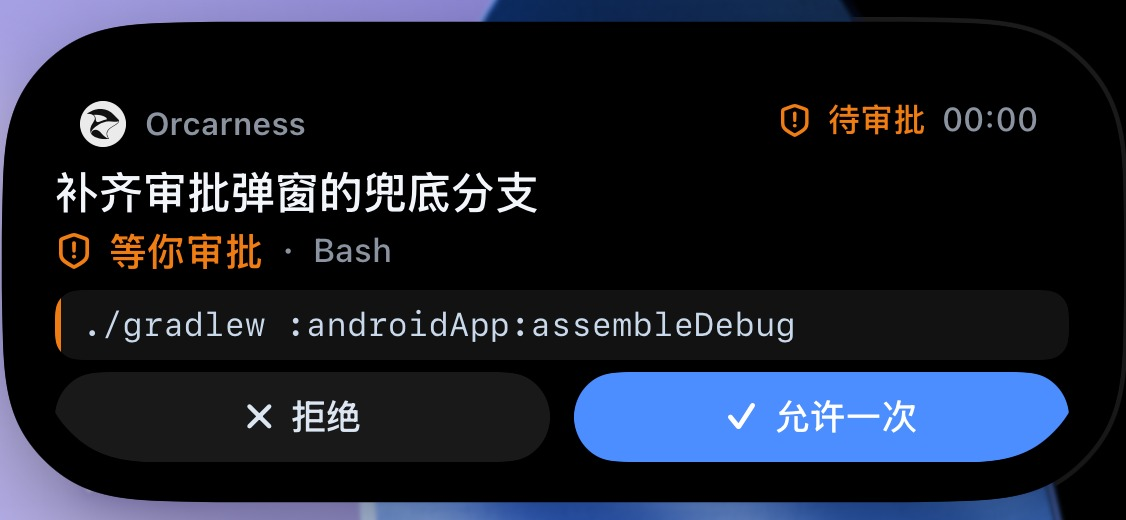
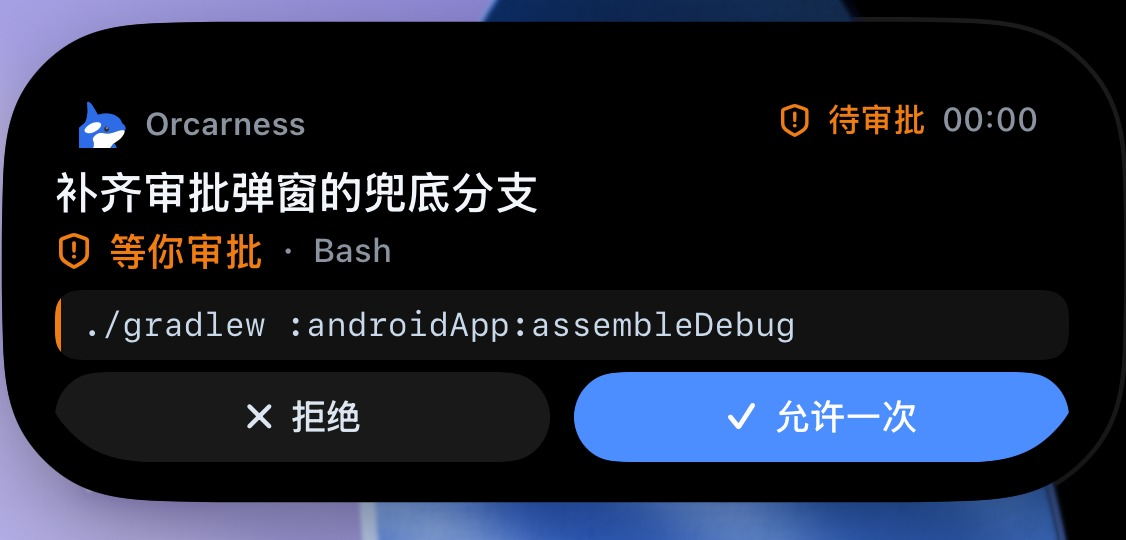
fix(live-activity): 换成正牌 Orcarness 蓝鲸（仅灵动岛）+ 鲸鱼资产命名整改
本笔解决什么（用户指出"蓝鲸形状不对" + 命名整改要求）：

【根因：两个鲸鱼资产名反着叫】
- 旧 `OrcarnessOrcaMark`（Widget 用）其实是 **Whaleness 旧图**（aria-label 至今写着
  "Whaleness orca mark"，路径与 Design/whaleness-orca-mark 逐字符相同）
- 旧 `DshOrcaMark`（主 App 用）才是 **正牌 Orcarness 图形**（8 条 path、自带多色 style）
- 按名字选图 → 把旧图涂蓝 → 用户一眼看出形状不对

【命名按「名字=图形」整改】
- 主 App：`DshOrcaMark.imageset` → **`OrcarnessOrcaBlack.imageset`**（`orcarness-orca-black.svg`）
  —— 图形文件**逐字节不变**（sha256 与原 `dsh-orca-mark.svg` 一致，已验证）
- Widget：`OrcarnessOrcaMark.imageset` → **`OrcarnessOrcaBlue.imageset`**（`orcarness-orca-blue.svg`）
  —— 基于正牌 8 path 图形，仅把黑色系 `#000000/#010101/#191918` 改品牌蓝 `#2E6BE6`，
  **白腹 `#FDFDFD`、白眼斑、灰眼 `#303034`、`#D4D0D0`、`#525251` 原样保留**
- Whaleness 旧图 imageset 删除（源文件仍在 `Design/whaleness-orca-mark/`，需要追溯去那里取）

【引用点 6 处全部改名】
Glass.swift×2、WorkspaceLoadingLogo.swift、GatewayProtocolTests.swift、
scripts/generate_loading_logo.swift（路径 + 注释）、AgentLiveActivityWidget.swift

【蓝鲸只用在灵动岛】
- `AgentWhaleMark` 读 `OrcarnessOrcaBlue`，**删掉浅灰圆底**（蓝鲸自带白腹，不需要圆底；
  用户明确不要灰圆底），无 forceDark、尺寸保持 16pt
- 主 App `OrcarnessOrcaIcon` **颜色逻辑一字未动**：浅色原图黑鲸、深色黑鲸 + 极浅灰圆底
  （设计稿 §453 明确要求）

【顺带修正误导性注释】
`Glass.swift` 原注释写「`DshOrcaMark` 是原版 Whaleness 的图形」——**错的**（正相反）。
已改成：`OrcarnessOrcaBlack`（原 `DshOrcaMark`）才是正牌；旧 `OrcarnessOrcaMark` 才是
Whaleness 旧图，并写明命名整改日期，避免下一人再被名字误导。

自验证据：
- 闸门 EXIT=0（四路 0 错误 / 收录 85/85 / 测试 16 文件 0 错误 / xcstrings 901 / 版本 1.7.12 (62)）
- 真实 Live Activity 实拍（模拟器 iOS 26.3，临时注入已删净）：
[…]

diff --git a/AgentLiveActivityWidget/AgentLiveActivityWidget.swift b/AgentLiveActivityWidget/AgentLiveActivityWidget.swift
@@ -29,7 +29,7 @@ struct AgentLiveActivityWidget: Widget {
                     AgentIslandExpanded(context: context)
                 }
             } compactLeading: {
-                AgentWhaleMark(compact: true, forceDark: true)
+                AgentWhaleMark(compact: true)
                     .frame(width: 20, height: 20)
             } compactTrailing: {
                 AgentCompactStatus(context: context)
@@ -530,7 +530,7 @@ private enum AgentActivityMetrics {
 private struct AgentIslandBrand: View {
     var body: some View {
         HStack(spacing: 6) {
-            AgentWhaleMark(compact: false, forceDark: true)
+            AgentWhaleMark(compact: false)
             Text("Orcarness")
                 .font(.system(size: 10.5, weight: .semibold))
                 .foregroundStyle(S29IslandColors.dim)
@@ -696,28 +696,26 @@ private struct AgentCompactStatus: View {
 
 // MARK: - 鲸鱼品牌图（用户 2026-10-30 口径）
 
-/// **不用 template**——多色品牌图套模板会压平细节（黑身 + 白斑 + 灰眼睛 → 一块纯色剪影，
-/// "认不出"）；资产级 `template-rendering-intent` 也已移除（见 OrcarnessOrcaMark.imageset）。
-/// · 浅色 = 原图直接渲染：白色是负空间，显白卡底，黑鲸 + 白斑天然成立
-/// · 深色 / 灵动岛 = 浅灰圆底托住负空间，白斑不糊进深底（与主 App `OrcarnessOrcaIcon`
-///   同款方案，2026-10-27 已验收）
+/// 蓝鲸品牌图（用户 2026-10-31 定稿：**不要浅灰圆底，要蓝鲸，白色必须保留**）。
+///
+/// 资源 `orcarness-orca-mark-blue.svg` 是**双层**结构（源 SVG 只有一个 `#111111`、
+/// 白色是透明负空间，直接改色做不到"黑变蓝、白保留"）：
+///   第 1 层 = 身体外轮廓实心**白**
+///   第 2 层 = 完整路径（含两条挖孔子路径）染品牌蓝 #2E6BE6
+/// 挖孔处露出第 1 层白 → 深黑底（锁屏深卡 / 恒黑灵动岛）上白斑清晰。
+///
+/// **不能用 `.renderingMode(.template)`**：会把双层压成单色剪影，白斑与鲸身细节全丢
+/// （资产级 `template-rendering-intent` 同样不能加）。浅色与深色统一用这张蓝鲸
+/// （白底上也是蓝身白斑，用户要求统一）。
 private struct AgentWhaleMark: View {
-    @Environment(\.colorScheme) private var scheme
     var compact: Bool = false
-    /// 灵动岛岛体恒黑，等同深色场景
-    var forceDark: Bool = false
 
     private var size: CGFloat { compact ? 16 : 16 }
 
     var body: some View {
-        let dark = forceDark || scheme == .dark
-        Image("OrcarnessOrcaMark")
+        Image("OrcarnessOrcaBlue")
             .resizable()
             .scaledToFit()
-            .padding(size * 0.14)
-            .background {
-                if dark { Circle().fill(Color(white: 0.92)) }
-            }
             .frame(width: size, height: size)
             .accessibilityHidden(true)
     }

diff --git a/DeepSeekHarnessMobile/Components/Glass.swift b/DeepSeekHarnessMobile/Components/Glass.swift
@@ -188,8 +188,6 @@ struct HarnessMark: View {
     var width: CGFloat = 216
 
     /// 只有字标，**不再前置那只虎鲸**（2026-10-26 真机反馈：「字的左右还有原版的图标在」）。
-    /// 原来它读 `DshOrcaMark`——那是原版 Whaleness 的图形、还带
-    /// `aria-label="Whaleness orca mark"`，挂在 Orcarness 字标旁边就是拼盘。
     /// 新字标本身已经表达完整（Orcarness + HARNESS 徽章），前面再放一只鲸是重复。
     /// 顺带好处：去掉图标后字标可用满 `width`（216pt），163:24 在 29pt 高时宽约 197pt，
     /// 正好不再被压到 183pt，字比之前更清楚。
@@ -212,16 +210,22 @@ struct OrcarnessOrcaIcon: View {
         // ⚠ 用户拍板（2026-10-27）：**不用 template**——多色品牌图套模板会压平细节
         // （黑鲸+白眼斑+灰眼睛 → 一块纯色剪影，"认不出"）。原始渲染保留全部细节。
         // 深色模式黑上黑 → 给一层极浅灰圆底（浅色模式直接原图）。
-        // 资产级 `template-rendering-intent` 也已移除（见 DshOrcaMark.imageset/Contents.json）。
+        // 资产级 `template-rendering-intent` 也已移除（见 OrcarnessOrcaBlack.imageset/Contents.json）。
+        //
+        // 📌 命名坑（2026-10-31 整改）：**`OrcarnessOrcaBlack`（原 `DshOrcaMark`）才是正牌
+        // Orcarness 图形**；旧文件里叫 `OrcarnessOrcaMark` 的那份其实是 **Whaleness 旧图**
+        // （aria-label 至今写着 "Whaleness orca mark"，已删除）。两个名字曾经反着叫，
+        // 现在按「名字=图形」统一：黑鲸 `OrcarnessOrcaBlack`（主 App）、
+        // 蓝鲸 `OrcarnessOrcaBlue`（Live Activity 专用）。别只凭名字猜图形。
         if colorScheme == .dark {
-            Image("DshOrcaMark")
+            Image("OrcarnessOrcaBlack")
                 .resizable().scaledToFit()
                 .padding(size * 0.14)
                 .background(Circle().fill(Color(white: 0.92)))
                 .frame(width: size, height: size)
                 .accessibilityHidden(true)
         } else {
-            Image("DshOrcaMark")
+            Image("OrcarnessOrcaBlack")
                 .resizable().scaledToFit()
                 .frame(width: size, height: size)
                 .accessibilityHidden(true)

diff --git a/DeepSeekHarnessMobile/Components/WorkspaceLoadingLogo.swift b/DeepSeekHarnessMobile/Components/WorkspaceLoadingLogo.swift
@@ -5,7 +5,7 @@ import SwiftUI
 /// 为什么：加载图的鲸形由 `generate_loading_logo.swift` 从 SVG 手写解析生成
 /// （只支持部分指令 + 手调缩放/渐变坐标），换矢量后连续两次产出"残缺/不像鲸"的图
 /// ——几何计算和填充规则是两层问题，自绘管线修一处漏一处。
-/// 而资源目录里的 `DshOrcaMark`（用户新矢量）由**系统渲染器**画，
+/// 而资源目录里的 `OrcarnessOrcaBlack`（用户新矢量）由**系统渲染器**画，
 /// 空态页已验证形状正确。所以这里直接用矢量 + SwiftUI 原生动画（呼吸缩放 + 渐变着色），
 /// **形状永远正确**，动效交给 SwiftUI。
 ///
@@ -21,7 +21,7 @@ struct WorkspaceLoadingLogo: View {
         // 模板渲染只取 alpha、丢掉所有颜色层次——黑鲸+白眼斑+灰眼睛被压成一块纯色剪影，
         // 用户看到的就是"认不出的灰色鲸鱼"。模板只适合单色图标；**多色品牌图必须原始渲染**。
         // 深色模式下黑鲸会"黑上黑"，所以给一层**中性浅色圆角底**（深浅同款，类似 AppIcon 的处理）。
-        Image("DshOrcaMark")                       // 原始渲染：黑鲸 + 白眼斑 + 灰眼睛全保留
+        Image("OrcarnessOrcaBlack")                       // 原始渲染：黑鲸 + 白眼斑 + 灰眼睛全保留
             .resizable()
             .scaledToFit()
             .padding(10)

diff --git a/scripts/generate_loading_logo.swift b/scripts/generate_loading_logo.swift
@@ -6,11 +6,11 @@ import ImageIO
 import UniformTypeIdentifiers
 
 let root = URL(fileURLWithPath: #filePath).deletingLastPathComponent().deletingLastPathComponent()
-// 2026-10-27：数据源换成用户新虎鲸矢量（build 37 的 `DshOrcaMark`）。
+// 2026-10-27：数据源换成用户新虎鲸矢量（build 37 的 `DshOrcaMark`，现名 `OrcarnessOrcaBlack`）。
 // 它有 **8 条 path**（旧版只有 1 条），且用了 **Q 二次曲线** —— 旧解析只取 firstMatch
 // 且只支持 M/C/Z，照搬会画出残缺形状/直接崩。这里改成：遍历全部 path，按序并入同一个
 // CGPath；指令支持 M/L/H/V/C/Q/Z（H/V 是 1 参数的直线）。
-let source = root.appendingPathComponent("DeepSeekHarnessMobile/Resources/Assets.xcassets/DshOrcaMark.imageset/dsh-orca-mark.svg")
+let source = root.appendingPathComponent("DeepSeekHarnessMobile/Resources/Assets.xcassets/OrcarnessOrcaBlack.imageset/orcarness-orca-black.svg")
 let svg = try String(contentsOf: source, encoding: .utf8)
 let pathRegex = try NSRegularExpression(pattern: #"<path d="([^"]+)""#)
 let matches = pathRegex.matches(in: svg, range: NSRange(svg.startIndex..., in: svg))

diff --git a/DeepSeekHarnessMobileTests/GatewayProtocolTests.swift b/DeepSeekHarnessMobileTests/GatewayProtocolTests.swift
@@ -10093,11 +10093,11 @@ final class WorkspaceFilePreviewPresentationTests: XCTestCase {
     }
 
     func testLogoUsesVectorInsteadOfApng() {
-        // 2026-10-27 重做：加载标识从 APNG 自绘改为矢量（`DshOrcaMark`）。
+        // 2026-10-27 重做：加载标识从 APNG 自绘改为矢量（`OrcarnessOrcaBlack`，原名 `DshOrcaMark`）。
         // 理由见 WorkspaceLoadingLogo 头注释——自绘管线换矢量后连续两次产出不像鲸的图。
         // 这里钉住两件事：① 不再引用 APNG dataset ② 模板渲染保证形状与空态一致。
         XCTAssertNil(NSDataAsset(name: "OrcarnessLoading") ?? nil)
-        XCTAssertTrue(UIImage(named: "DshOrcaMark") != nil, "矢量资源必须在位")
+        XCTAssertTrue(UIImage(named: "OrcarnessOrcaBlack") != nil, "矢量资源必须在位")
         // reduceMotion 下不做呼吸动画（防闪）——行为由 SwiftUI `.animation(value:)` 保证，
         // 这类纯视图动画无法在无宿主窗口下断言，真机验收覆盖。
     }
